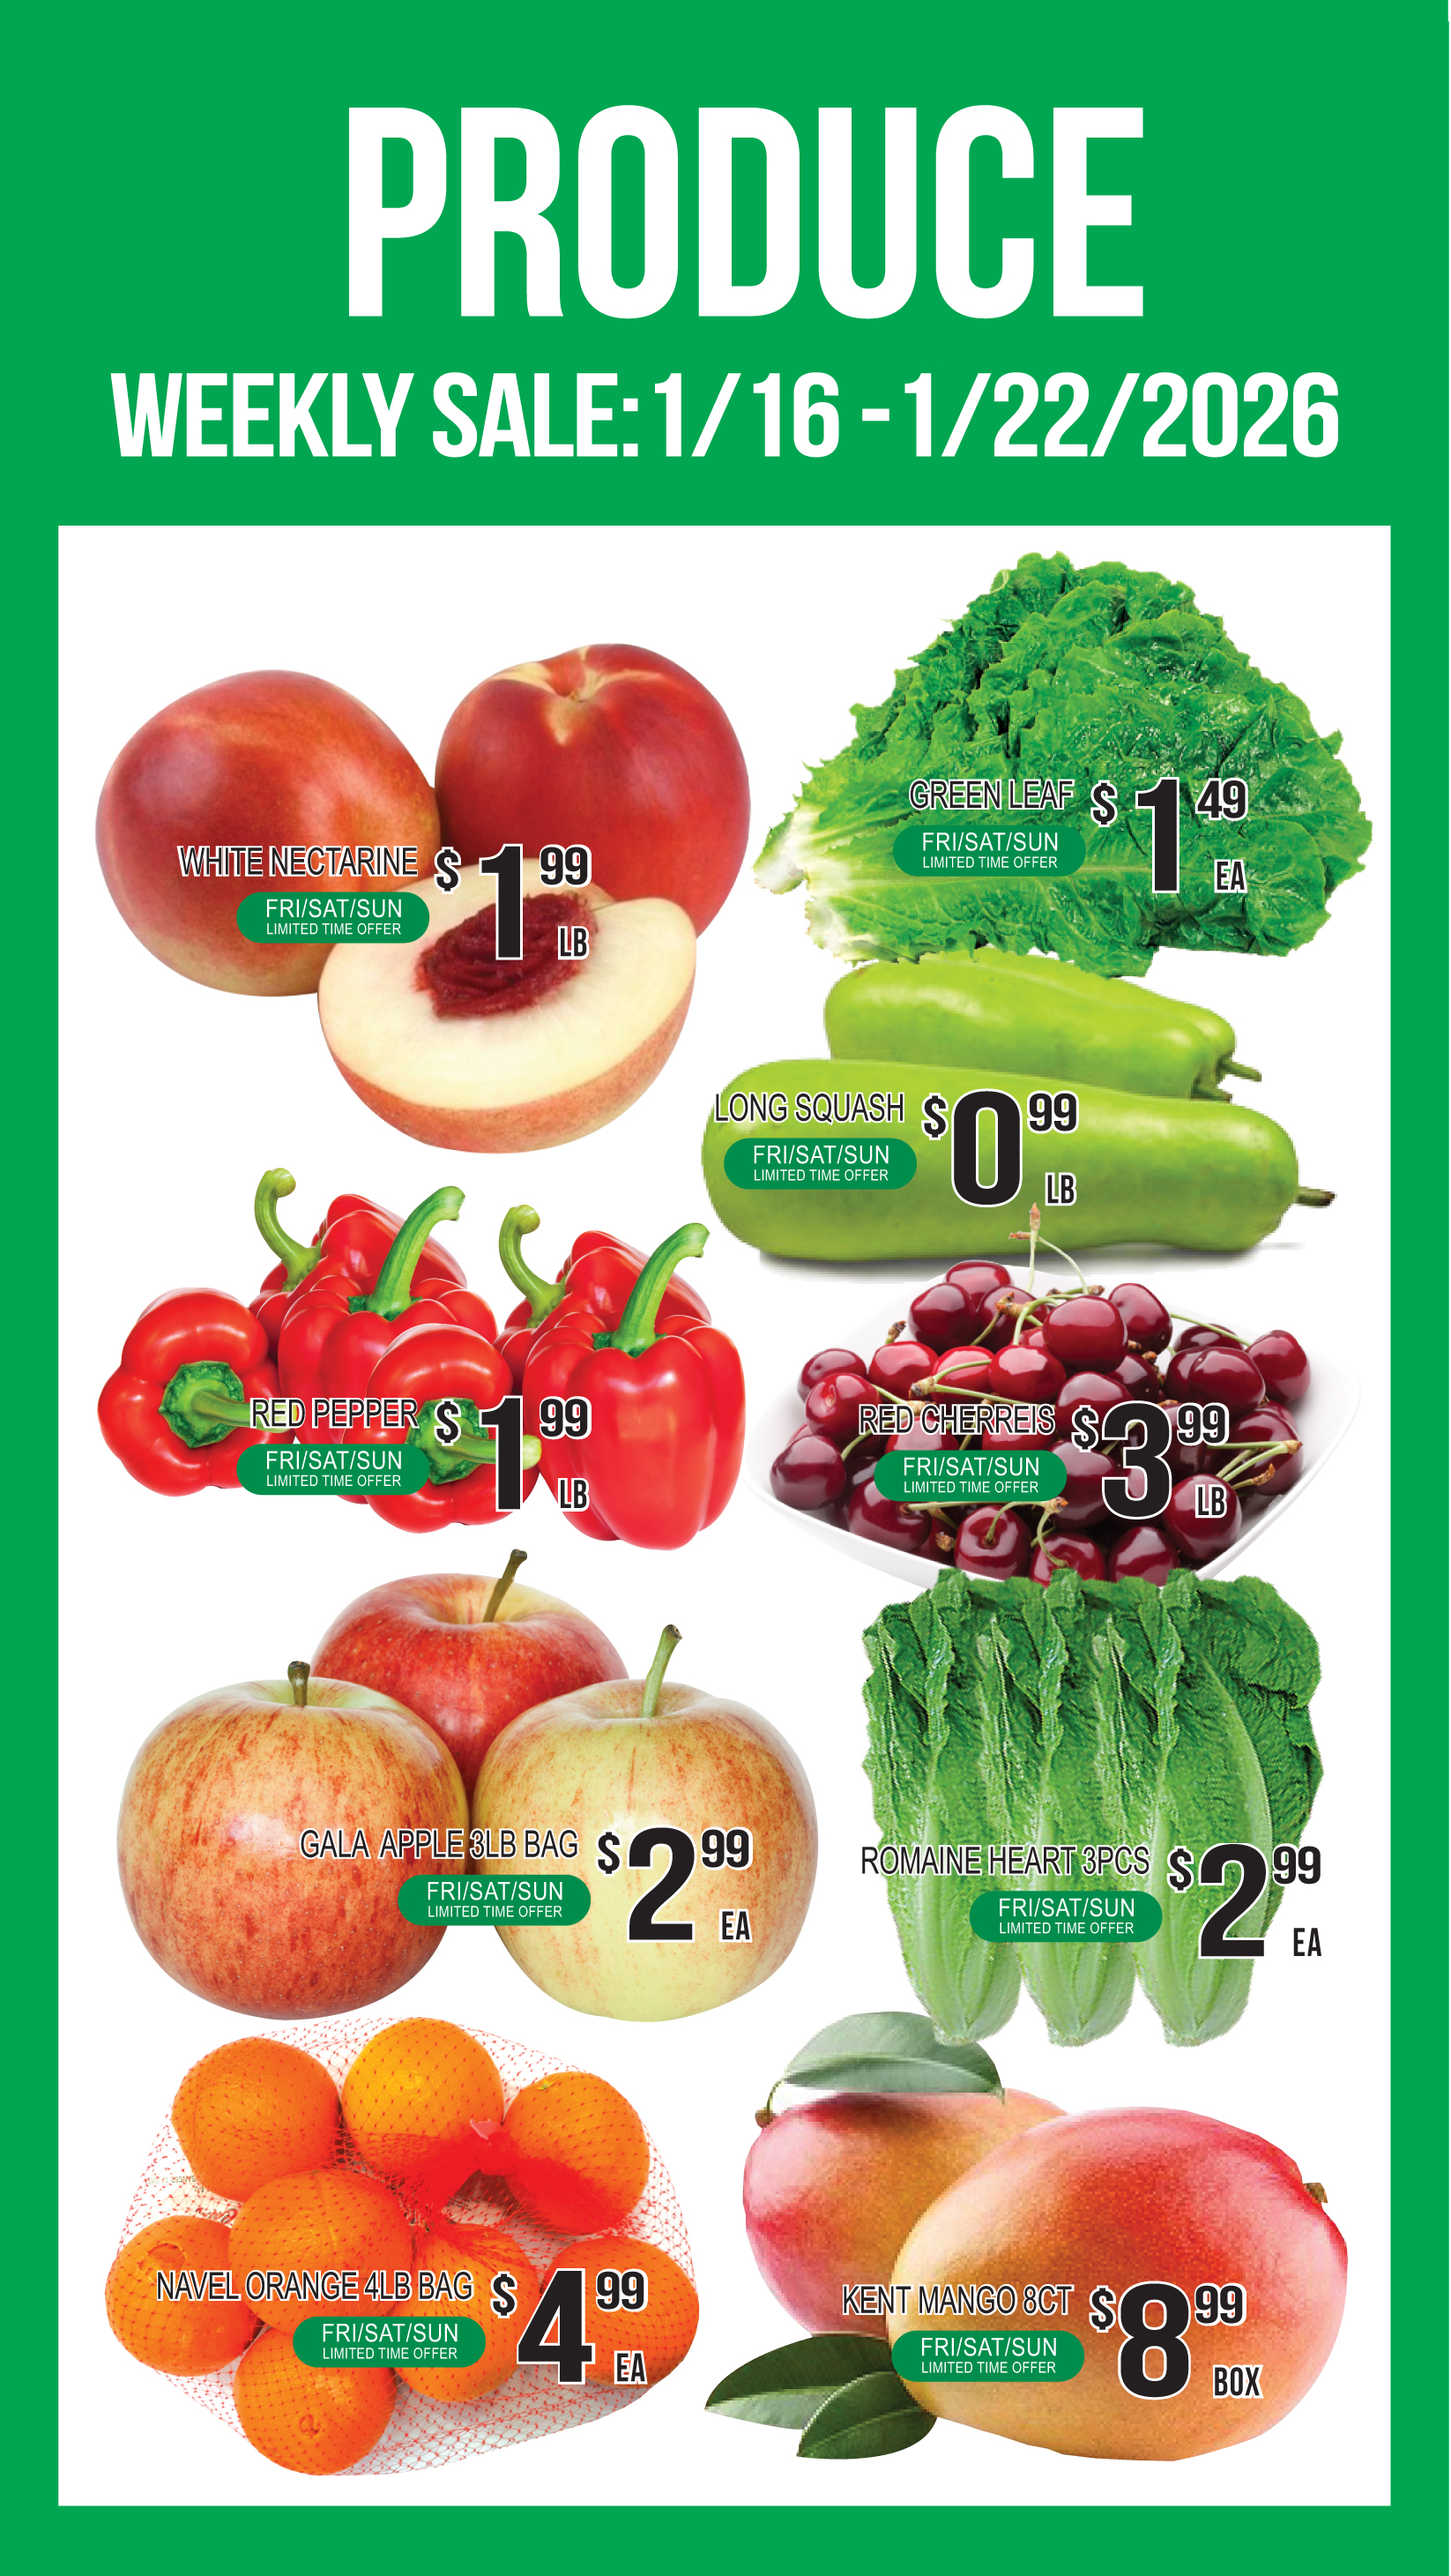
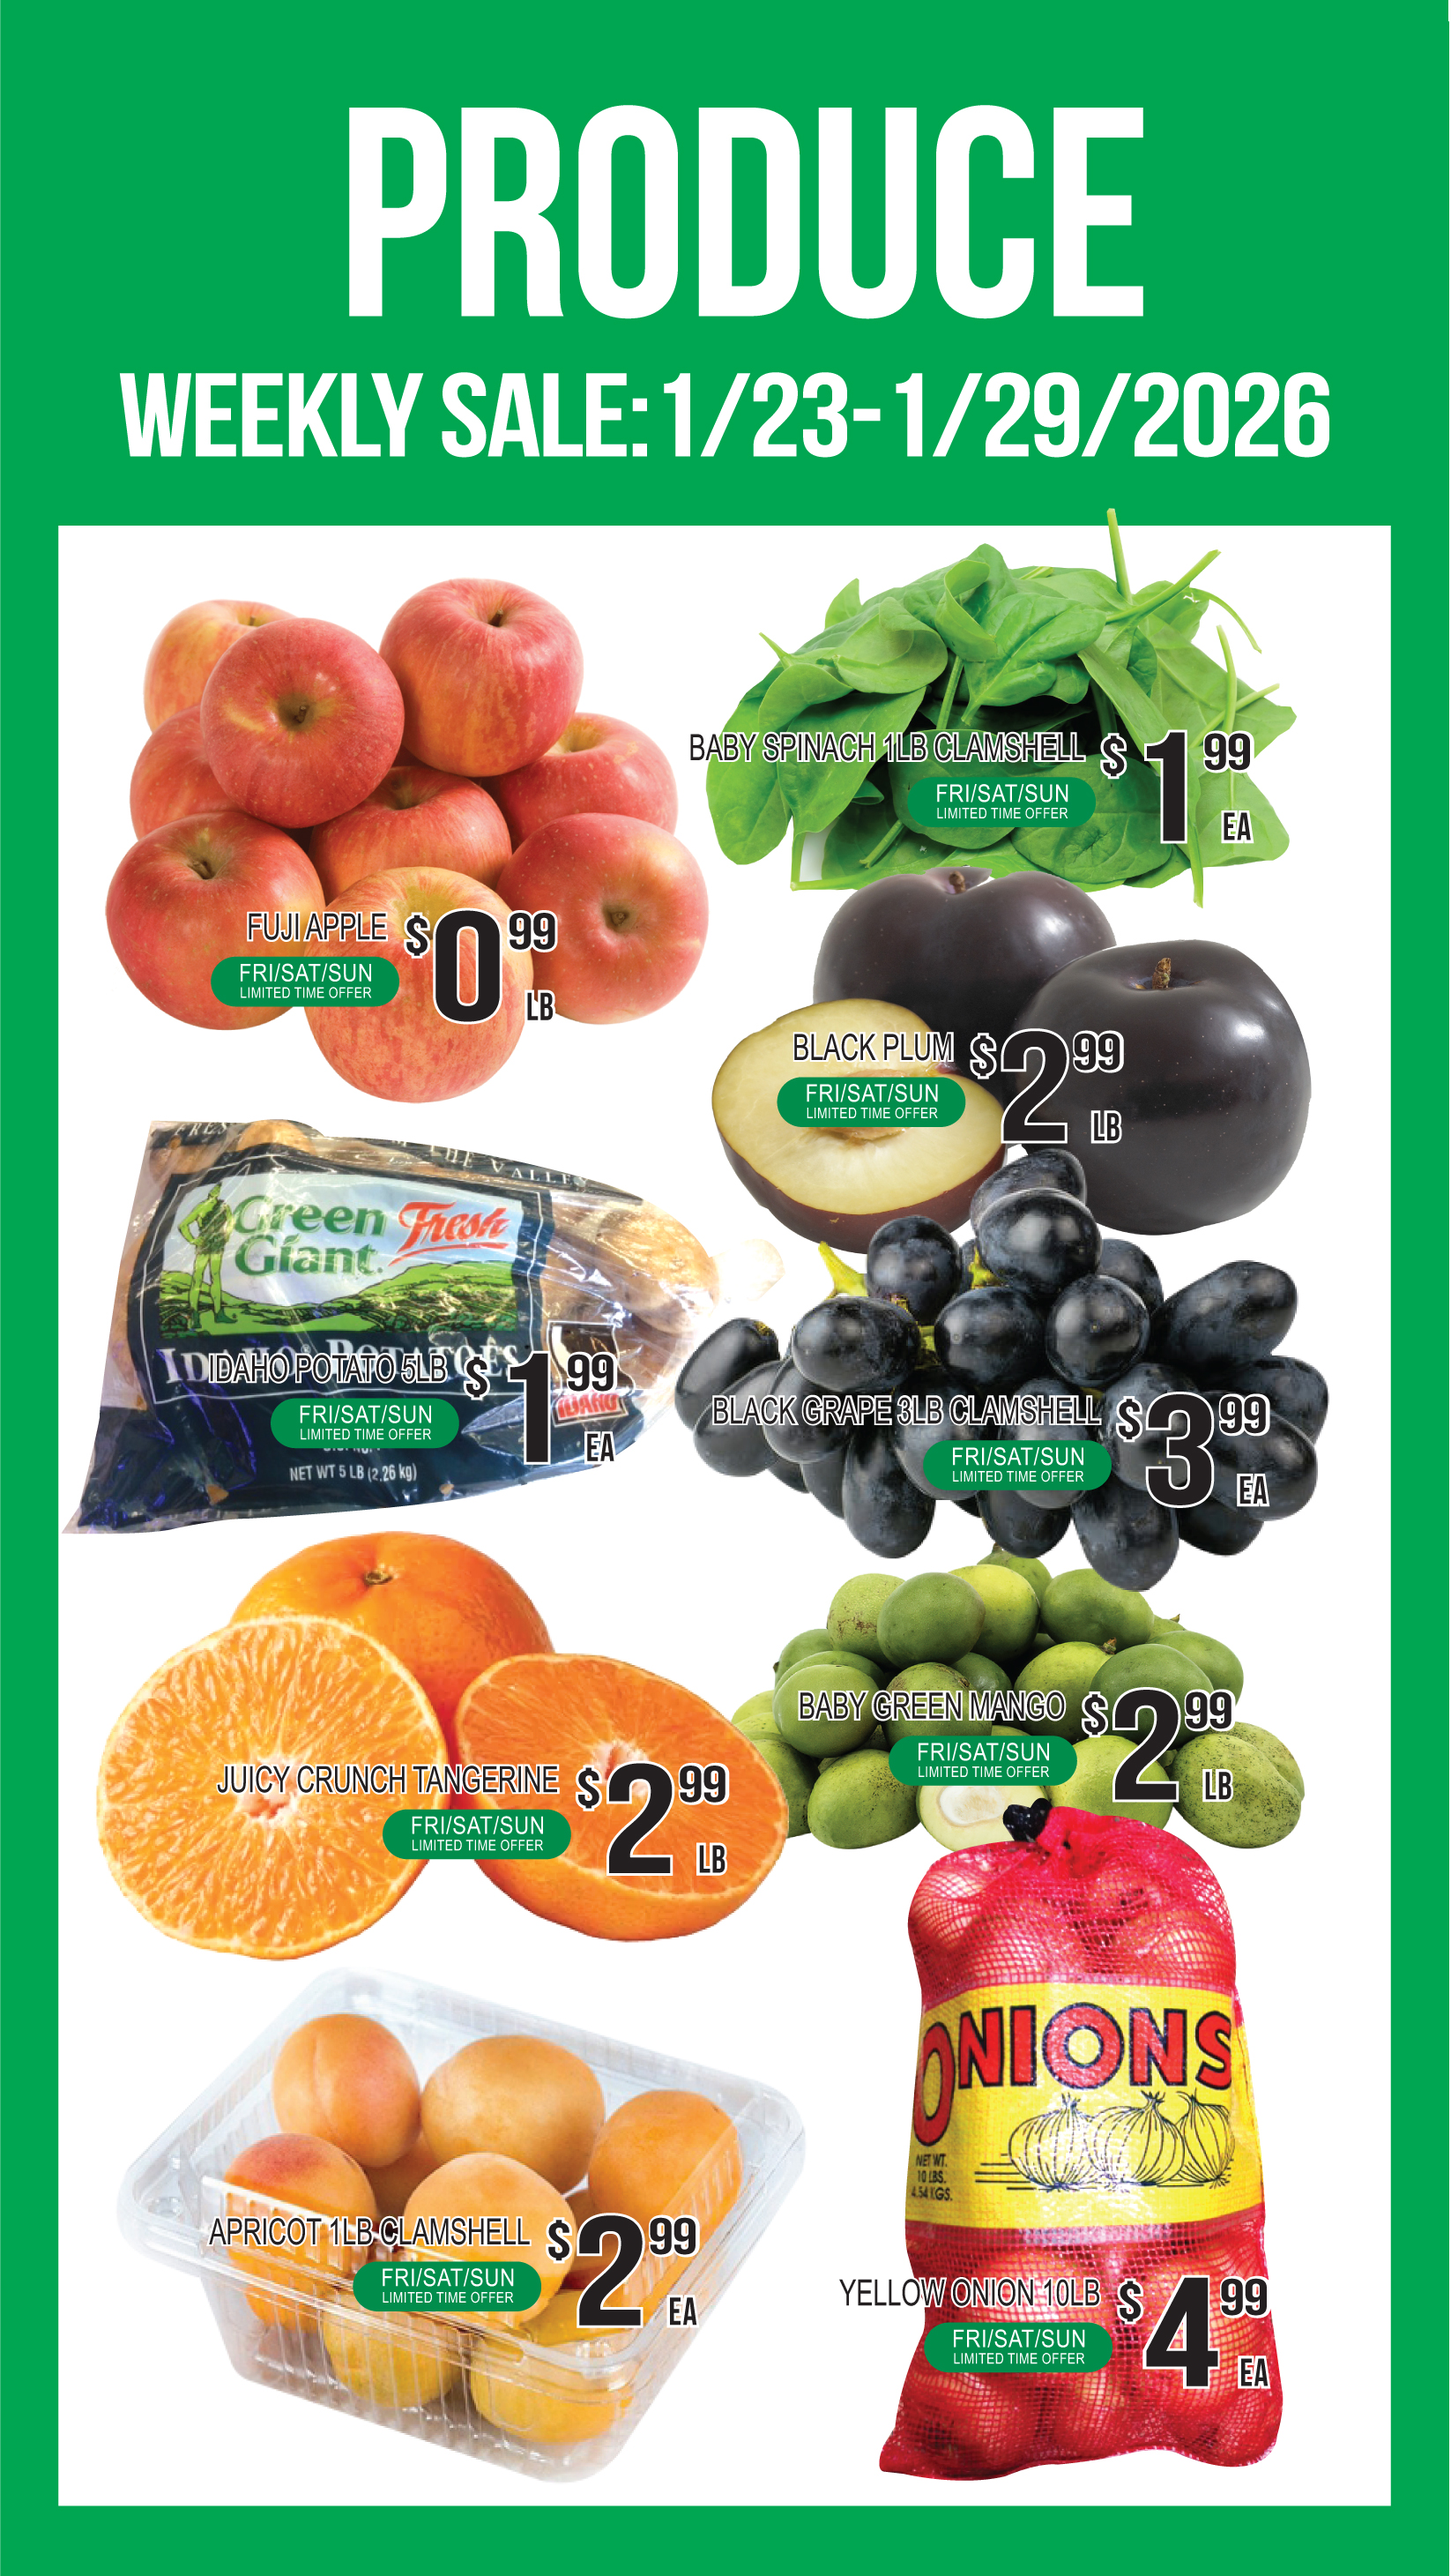
weekly

diff --git a/index.html b/index.html
@@ -67,16 +67,16 @@
           <img src="./public/assets/weekly/lds.jpg" class="img-fluid" alt="...">
         </div> -->
         <div class="carousel-item center-carousel active">
-          <img src="./public/assets/weekly/meat.jpg?v=0116" class="img-fluid" alt="...">
+          <img src="./public/assets/weekly/meat.jpg?v=0123" class="img-fluid" alt="...">
         </div>
         <div class="carousel-item center-carousel">
-          <img src="./public/assets/weekly/produce.jpg?v=0116" class="img-fluid" alt="...">
+          <img src="./public/assets/weekly/produce.jpg?v=0123" class="img-fluid" alt="...">
         </div>
         <div class="carousel-item center-carousel">
-          <img src="./public/assets/weekly/seafood.jpg?v=0116" class="img-fluid" alt="...">
+          <img src="./public/assets/weekly/seafood.jpg?v=0123" class="img-fluid" alt="...">
         </div>
         <div class="carousel-item center-carousel">
-          <img src="./public/assets/weekly/grocery.jpg?v=0116" class="img-fluid" alt="...">
+          <img src="./public/assets/weekly/grocery.jpg?v=0123" class="img-fluid" alt="...">
         </div>
         <!-- <div class="carousel-item center-carousel">
           <img src="./public/assets/sale/grocery2.jpg?v=070623" class="img-fluid" alt="...">

diff --git a/deals.html b/deals.html
@@ -50,15 +50,15 @@
     <div class="row deal">
 
       <h2>English</h2>
-      <img class="img-fluid" src="./public/assets/weekly/english.jpg?v=0116">
+      <img class="img-fluid" src="./public/assets/weekly/english.jpg?v=0123">
 
       <br><br>
       <h2>Hispanic</h2>
-      <img class="img-fluid" src="./public/assets/weekly/hispanic.jpg?v=0116">
+      <img class="img-fluid" src="./public/assets/weekly/hispanic.jpg?v=0123">
 
       <br>
       <h2>Korean</h2>
-      <img class="img-fluid" src="./public/assets/weekly/korean.jpg?v=0116">
+      <img class="img-fluid" src="./public/assets/weekly/korean.jpg?v=0123">
       <br>
       <br>
     </div>
